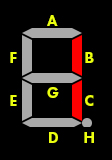
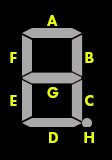
Working on bits and bytes examples

Changed region(s): [[0.1875, 0.2188, 0.75, 0.75]]

diff --git a/Chapter_08_BitsAndBytes/javafx-led-number-display-controller/src/main/java/be/webtechie/lednumberdisplaycontroller/SegmentSelection.java b/Chapter_08_BitsAndBytes/javafx-led-number-display-controller/src/main/java/be/webtechie/lednumberdisplaycontroller/SegmentSelection.java
@@ -1,21 +1,19 @@
 package be.webtechie.lednumberdisplaycontroller;
 
+import be.webtechie.javafxlednumberdisplay.component.LedNumber;
 import be.webtechie.javafxlednumberdisplay.definition.DisplaySkin;
 import be.webtechie.javafxlednumberdisplay.definition.HighlightType;
-import java.io.FileInputStream;
-import java.io.FileNotFoundException;
 import javafx.event.ActionEvent;
 import javafx.geometry.Insets;
 import javafx.geometry.Pos;
 import javafx.scene.control.CheckBox;
 import javafx.scene.control.ComboBox;
+import javafx.scene.control.Label;
 import javafx.scene.image.Image;
 import javafx.scene.image.ImageView;
 import javafx.scene.layout.HBox;
 import javafx.scene.layout.VBox;
 import javafx.scene.paint.Color;
-
-import be.webtechie.javafxlednumberdisplay.component.LedNumber;
 
 public class SegmentSelection extends VBox {
 
@@ -32,17 +30,31 @@ public class SegmentSelection extends VBox {
     private CheckBox cbG;
     private CheckBox cbH;
 
+    private Label lblValue;
+
     public SegmentSelection() {
         this.setPadding(new Insets(10));
         this.setSpacing(25);
+        this.setAlignment(Pos.CENTER);
 
         this.addLedNumberWithHighlightSelection();
         this.addBitSelection();
+
+        this.selectHighLightType = new ComboBox<>();
+        this.selectHighLightType.getItems().setAll(HighlightType.values());
+        this.selectHighLightType.setOnAction(this::updateHighlights);
+        this.getChildren().add(this.selectHighLightType);
+
+        this.lblValue = new Label();
+        this.lblValue.setStyle("-fx-font-size: 24px; -fx-font-weight: bold;");
+        this.getChildren().add(this.lblValue);
     }
 
     private void addLedNumberWithHighlightSelection() {
         HBox holder = new HBox();
-        holder.setSpacing(10);
+        holder.setSpacing(100);
+        holder.setStyle("-fx-background-color: black;");
+        holder.setAlignment(Pos.CENTER);
         this.getChildren().add(holder);
 
         Image img = new Image("led-number-display.jpg");
@@ -51,59 +63,60 @@ public class SegmentSelection extends VBox {
         holder.getChildren().add(imgView);
 
         this.ledNumberDisplay = new LedNumber(DisplaySkin.CLASSIC, Color.BLACK, Color.DARKGRAY, Color.RED);
+        this.ledNumberDisplay.setMaxHeight(105);
         holder.getChildren().add(this.ledNumberDisplay);
-
-        VBox inputs = new VBox();
-        inputs.setSpacing(10);
-        holder.getChildren().add(inputs);
-
-        this.selectHighLightType = new ComboBox<>();
-        this.selectHighLightType.getItems().setAll(HighlightType.values());
-        this.selectHighLightType.setOnAction(this::updateHighlights);
-        inputs.getChildren().add(this.selectHighLightType);
     }
 
     private void addBitSelection() {
         HBox bitsSelection = new HBox();
         bitsSelection.setSpacing(10);
+        bitsSelection.setAlignment(Pos.CENTER);
         this.getChildren().add(bitsSelection);
 
-        this.cbA = new CheckBox("A");
+        this.cbA = new CheckBox("A (0x01)");
         this.cbA.setOnAction(this::updateFromBits);
-        this.cbB = new CheckBox("B");
+        this.cbB = new CheckBox("B (0x02)");
         this.cbB.setOnAction(this::updateFromBits);
-        this.cbC = new CheckBox("C");
+        this.cbC = new CheckBox("C (0x04)");
         this.cbC.setOnAction(this::updateFromBits);
-        this.cbD = new CheckBox("D");
+        this.cbD = new CheckBox("D (0x08)");
         this.cbD.setOnAction(this::updateFromBits);
-        this.cbE = new CheckBox("E");
+        this.cbE = new CheckBox("E (0x10)");
         this.cbE.setOnAction(this::updateFromBits);
-        this.cbF = new CheckBox("F");
+        this.cbF = new CheckBox("F (0x20)");
         this.cbF.setOnAction(this::updateFromBits);
-        this.cbG = new CheckBox("G");
+        this.cbG = new CheckBox("G (0x40)");
         this.cbG.setOnAction(this::updateFromBits);
-        this.cbH = new CheckBox("H");
+        this.cbH = new CheckBox("H (0x80)");
         this.cbH.setOnAction(this::updateFromBits);
 
-        bitsSelection.getChildren().addAll(
-                this.cbA, this.cbB, this.cbC, this.cbD,
-                this.cbE, this.cbF, this.cbG, this.cbH
-        );
+        bitsSelection.getChildren()
+                .addAll(this.cbH, this.cbG, this.cbF, this.cbE, this.cbD, this.cbC, this.cbB, this.cbA);
     }
 
     private void updateHighlights(ActionEvent actionEvent) {
-        this.ledNumberDisplay.highlight(this.selectHighLightType.getValue(), this.cbH.isSelected());
+        HighlightType highlightType = this.selectHighLightType.getValue();
 
-        this.cbA.setSelected(this.selectHighLightType.getValue().isA());
-        this.cbB.setSelected(this.selectHighLightType.getValue().isB());
-        this.cbC.setSelected(this.selectHighLightType.getValue().isC());
-        this.cbD.setSelected(this.selectHighLightType.getValue().isD());
-        this.cbE.setSelected(this.selectHighLightType.getValue().isE());
-        this.cbF.setSelected(this.selectHighLightType.getValue().isF());
-        this.cbG.setSelected(this.selectHighLightType.getValue().isG());
+        if (highlightType == null) {
+            return;
+        }
+
+        this.ledNumberDisplay.highlight(highlightType, this.cbH.isSelected());
+
+        this.cbA.setSelected(highlightType.isA());
+        this.cbB.setSelected(highlightType.isB());
+        this.cbC.setSelected(highlightType.isC());
+        this.cbD.setSelected(highlightType.isD());
+        this.cbE.setSelected(highlightType.isE());
+        this.cbF.setSelected(highlightType.isF());
+        this.cbG.setSelected(highlightType.isG());
+
+        this.setLblValue();
     }
 
     private void updateFromBits(ActionEvent actionEvent) {
+        this.selectHighLightType.valueProperty().set(null);
+
         this.ledNumberDisplay.highlight(
                 this.cbA.isSelected(),
                 this.cbB.isSelected(),
@@ -114,9 +127,30 @@ public class SegmentSelection extends VBox {
                 this.cbG.isSelected(),
                 this.cbH.isSelected()
         );
+
+        this.setLblValue();
     }
 
-    private int getMajorDigit(int value) {
-        return (value - (value % 10)) / 10;
+    private void setLblValue() {
+        int value = (this.cbA.isSelected() ? 0x01 : 0x00)
+                + (this.cbB.isSelected() ? 0x02 : 0x00)
+                + (this.cbC.isSelected() ? 0x04 : 0x00)
+                + (this.cbD.isSelected() ? 0x08 : 0x00)
+                + (this.cbE.isSelected() ? 0x10 : 0x00)
+                + (this.cbF.isSelected() ? 0x20 : 0x00)
+                + (this.cbG.isSelected() ? 0x40 : 0x00)
+                + (this.cbH.isSelected() ? 0x80 : 0x00);
+
+        this.lblValue.setText("Value: " + value
+                + " = 0x" + padLeftZero(Integer.toHexString(value).toUpperCase(), 2)
+                + " = " + padLeftZero(Integer.toBinaryString(value), 8));
+    }
+
+    private static String padLeftZero(String txt, int length) {
+        StringBuilder rt = new StringBuilder();
+        for (int i = 0; i < (length - txt.length()); i++) {
+            rt.append("0");
+        }
+        return rt.append(txt).toString();
     }
 }

diff --git a/Chapter_08_BitsAndBytes/javafx-bits-calculator/src/main/java/be/webtechie/javafxbitscalculator/App.java b/Chapter_08_BitsAndBytes/javafx-bits-calculator/src/main/java/be/webtechie/javafxbitscalculator/App.java
@@ -1,13 +1,17 @@
+package be.webtechie.javafxbitscalculator;
+
 import javafx.application.Application;
 import javafx.scene.Scene;
 import javafx.stage.Stage;
 
-public class Main extends Application {
+/**
+ * JavaFX App
+ */
+public class App extends Application {
     @Override
     public void start(Stage stage) {
-        Scene scene = new Scene(new BitsAndBytes(), 1600, 300);
-
-        stage.setTitle("Bits and bytes - comparing signed and unsigned");
+        var scene = new Scene(new BitsAndBytes(), 1600, 260);
+        stage.setTitle("Bits and bytes");
         stage.setScene(scene);
         stage.show();
     }

diff --git a/Chapter_08_BitsAndBytes/javafx-led-number-display-controller/src/main/java/be/webtechie/lednumberdisplaycontroller/App.java b/Chapter_08_BitsAndBytes/javafx-led-number-display-controller/src/main/java/be/webtechie/lednumberdisplaycontroller/App.java
@@ -10,7 +10,7 @@ import javafx.stage.Stage;
 public class App extends Application {
     @Override
     public void start(Stage stage) {
-        var scene = new Scene(new SegmentSelection(), 640, 480);
+        var scene = new Scene(new SegmentSelection(), 640, 330);
         stage.setScene(scene);
         stage.show();
     }

diff --git a/Chapter_08_BitsAndBytes/javafx-bits-calculator/src/main/java/be/webtechie/javafxbitscalculator/BitsAndBytes.java b/Chapter_08_BitsAndBytes/javafx-bits-calculator/src/main/java/be/webtechie/javafxbitscalculator/BitsAndBytes.java
@@ -1,3 +1,5 @@
+package be.webtechie.javafxbitscalculator;
+
 import java.text.DecimalFormat;
 import java.text.DecimalFormatSymbols;
 import java.util.ArrayList;

diff --git a/Chapter_08_BitsAndBytes/javafx-bits-calculator/src/main/java/module-info.java b/Chapter_08_BitsAndBytes/javafx-bits-calculator/src/main/java/module-info.java
@@ -1,0 +1,4 @@
+module be.webtechie {
+    requires javafx.controls;
+    exports be.webtechie.javafxbitscalculator;
+}

diff --git a/Chapter_02_Tools/README.md b/Chapter_02_Tools/README.md
@@ -5,6 +5,9 @@
 ### Tools
 * [WireShark on Raspberry PI ](https://donsthinktank.blogspot.com/2015/07/wireshark-raspberry-pi.html)
 
+### Level shifting
+* [](https://www.raspberrypi-spy.co.uk/2018/09/using-a-level-shifter-with-the-raspberry-pi-gpio/)
+
 ### LED strips
 * [WS2812B vs WS2813 Addressable RGB LED Strips – How are they different?](https://www.seeedstudio.com/blog/2019/02/14/ws2812b-vs-ws2813-addressable-rgb-led-strips-how-are-they-different/)
 * [Guide for WS2812B Addressable RGB LED Strip with Arduino](https://randomnerdtutorials.com/guide-for-ws2812b-addressable-rgb-led-strip-with-arduino/)
